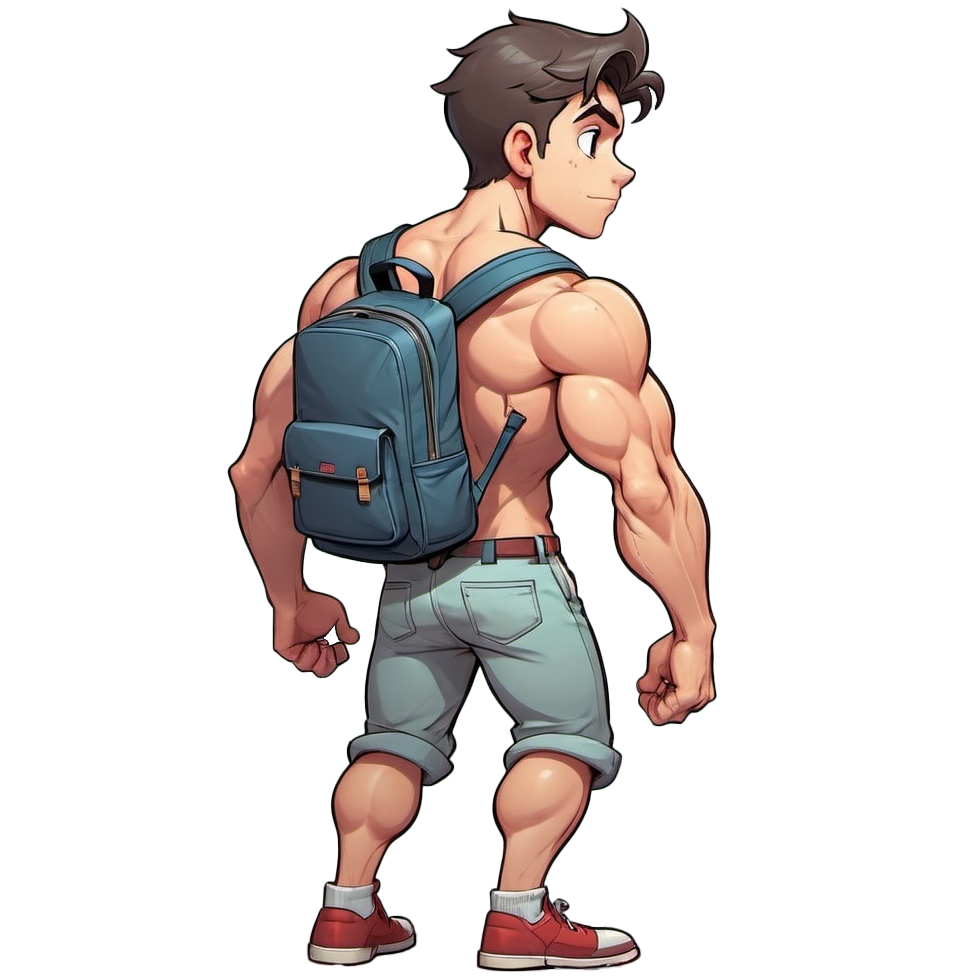
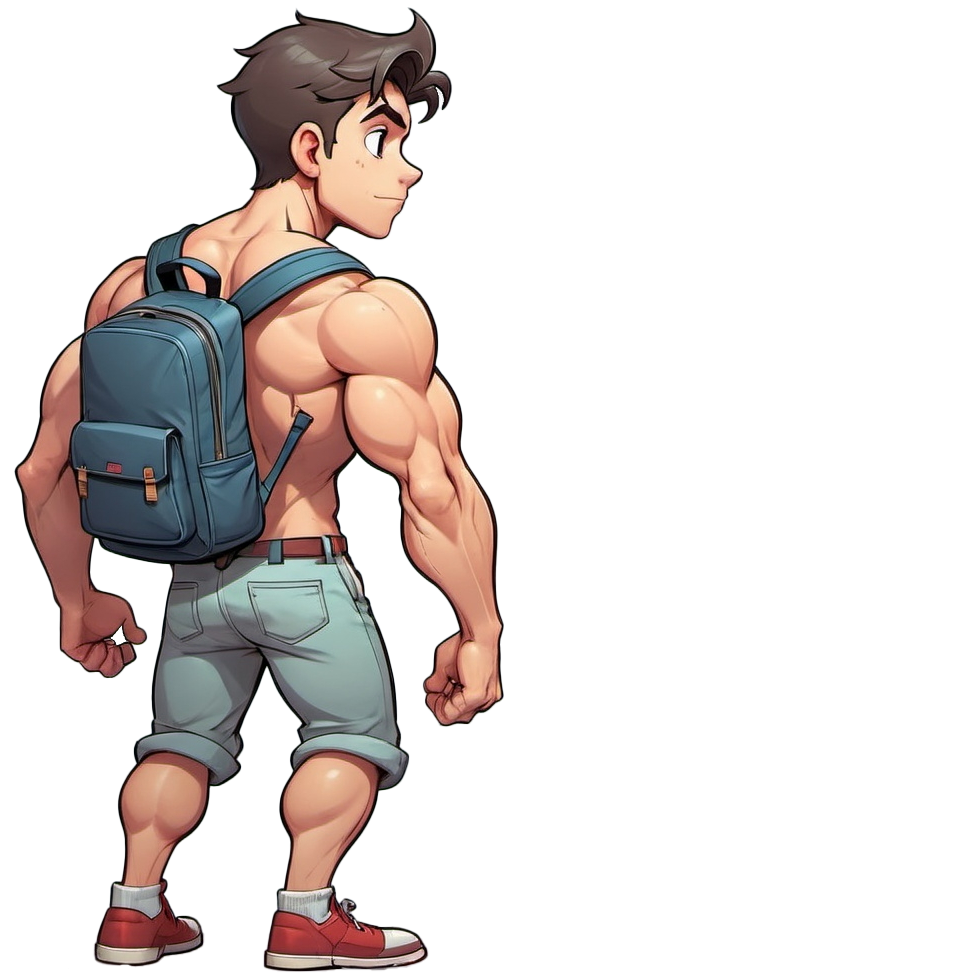
Add sprites for chris, lin and jen

diff --git a/src/globals/UC.py b/src/globals/UC.py
@@ -17,17 +17,22 @@ class UC:
     music_repeat_point=MUSIC_EVENT_END
 
 #Image assets:
-    background_image=f"{absolute_path}/assets/images/backgrounds/Background8.png"
-    info_box_image=f"{absolute_path}/assets/images/text_box.png"
-    menu_box_image = f"{absolute_path}/assets/images/text_box.png"
-    stat_box_image=f"{absolute_path}/assets/images/stat_box.png"
+    image_path=f"{absolute_path}/assets/images/"
+    background_image=f"{image_path}/backgrounds/Background8.png"
+    info_box_image=f"{image_path}text_box.png"
+    menu_box_image = f"{image_path}text_box.png"
+    stat_box_image=f"{image_path}stat_box.png"
 
     #Characters:
-    main_char_image_01= f"{absolute_path}/assets/images/characters/Boy_backpack3.png"
-    professor_a_image_01= f"{absolute_path}/assets/images/characters/Male_Professor_1_transparent.png"
-    professor_b_image_01= f"{absolute_path}/assets/images/characters/Male_Professor_2_transparent.png"
-    t_a_image_01=f"{absolute_path}/assets/images/characters/Female_TA1_transparent.png"
-    nu_husky_image_01=f"{absolute_path}/assets/images/characters/NU_Husky_transparent.png"
+    character_path=f"{absolute_path}/assets/images/characters/"
+    male_normal_behind_image= f"{character_path}Boy_backpack4.png"
+    male_muscle_behind_image=f"{character_path}Muscle_boy_backpack.png"
+    female_brown_hair_image=f"{character_path}Girl_brown_hair.png"
+    female_black_hair_image=f"{character_path}Girl_black_hair.png"
+    professor_a_image_01= f"{character_path}Male_Professor_1_transparent.png"
+    professor_b_image_01= f"{character_path}Male_Professor_2_transparent.png"
+    t_a_image_01=f"{character_path}Female_TA1_transparent.png"
+    nu_husky_image_01=f"{character_path}NU_Husky_transparent.png"
 
     #Special Effects:
     punch_effect_image=f"{absolute_path}/assets/images/effects/punches_effect.bmp"

diff --git a/src/globals/personas.py b/src/globals/personas.py
@@ -12,13 +12,15 @@ class Personas:
     Characters in the game that have different attributes.
     """
 
-    big_g=AllPowerful("He-Man", 10,10,10,6,6,Sprites.rory_battle1)
+    big_g=AllPowerful("He-Man", 10, 10, 10, 6, 6, Sprites.male_normal_backpack_behind)
 
-    rory=LazyStudent("Rory", 1, 10, 10, 5, 5,Sprites.rory_battle1)
+    rory=LazyStudent("Rory", 1, 10, 10, 5, 5, Sprites.male_normal_backpack_behind)
 
-    mina=Character("Mina",1,10,10,4,6,Sprites.emoji_chill)
+    lin=Character("Lin",1,10,10,4,6,Sprites.girl_black_hair)
 
-    chris=Character("Chris", 1, 10, 10, 6,4 ,Sprites.rory_battle1)
+    jen = Character("Jen", 1, 10, 10, 4, 6, Sprites.girl_brown_hair)
+
+    chris=Character("Chris", 1, 10, 10, 6, 4, Sprites.male_muscular_shirtless_behind)
 
     enemy1=Character("Wendie",1,200,200,5,5,Sprites.emoji_on_fire,600,200)
 
@@ -39,8 +41,9 @@ class Crews:
     default_player=[
         Personas.big_g,
         Personas.rory,
-        Personas.mina
-        ,Personas.chris
+        Personas.lin,
+        Personas.chris,
+        Personas.jen
     ]
     default_enemy=[
         Personas.math_professor_a,

diff --git a/src/globals/sprites.py b/src/globals/sprites.py
@@ -5,11 +5,30 @@ class Sprites:
     """
     Holds sprites for use in game
     """
-    rory_battle1 = Sprite(
-        200, 400, 320, 320,
-        UC.main_char_image_01,
+    male_normal_backpack_behind = Sprite(
+        200, 400, 450, 450,
+        UC.male_normal_behind_image,
         (64, 177, 64),
     )
+
+    male_muscular_shirtless_behind= Sprite(
+        200, 400, 550, 550,
+        UC.male_muscle_behind_image,
+        (64, 177, 64),
+    )
+
+    girl_brown_hair = Sprite(
+        200, 400, 550, 550,
+        UC.female_brown_hair_image,
+        (64, 177, 64),
+    )
+
+    girl_black_hair = Sprite(
+        200, 400, 550, 550,
+        UC.female_black_hair_image,
+        (64, 177, 64),
+    )
+
     emoji_chill = Sprite(
         200, 400, 200, 200,
         f"{UC.absolute_path}/assets/images/test_images/Emoji-Chill.png",

diff --git a/src/systems/BattleScreen.py b/src/systems/BattleScreen.py
@@ -349,7 +349,8 @@ class BattleScreen:
                                 self.__target_menu.set_visible(False)
                             else:
                                 self.execute_menu(self.__menu_tree[-1])
-
+                                
+                            menu = self.__menu_list[self.__target_menu.get_visible()]
                             self.show_description(menu)
                         case btn.K_RETURN:
                             name=0

diff --git a/src/units/subcharacters/MathProfessor.py b/src/units/subcharacters/MathProfessor.py
@@ -11,6 +11,7 @@ class MathProfessor(Character):
         self.__profession_move=Skill("Discreet Math", ["mental"], 0, 10, ["confused"], 1, 3)
         self.__math_professor_move_dict = {
             "Skill": {
+                "description": "Use a special ability",
                 "menu":{
                     "Discreet Math": {
                         "name": "Discreet Math",

diff --git a/src/units/subcharacters/Husky.py b/src/units/subcharacters/Husky.py
@@ -11,6 +11,7 @@ class Husky(Character):
         self.__profession_move = Skill("Growl", ["mental"], 0, 10, ["afraid"], 1, 3)
         self.__husky_move_dict={
             "Skill":{
+                "description": "Use a special ability",
                 "menu":{
                     "Growl": {
                         "name": "Growl",

diff --git a/src/units/subcharacters/LazyStudent.py b/src/units/subcharacters/LazyStudent.py
@@ -11,6 +11,7 @@ class LazyStudent(Character):
         self.get_condition().immunities = []
         self.__lazy_move_dict = {
             "Skill": {
+                "description": "Use a special ability",
                 "menu": {
                     "Sleep in Class": {
                         "name": "Sleep in Class",
